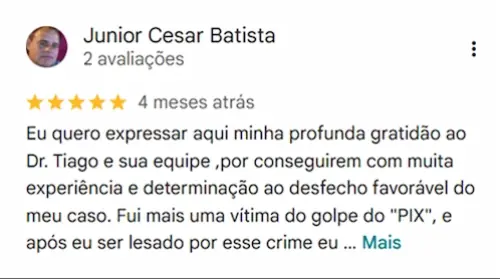
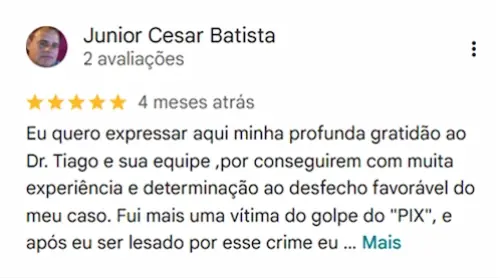
fix: SocialProof

diff --git a/src/components/sections/SocialProof.jsx b/src/components/sections/SocialProof.jsx
@@ -1,4 +1,4 @@
-import React, { useState } from "react";
+import React, { useState, useRef, useEffect } from "react";
 import content from "../../content/content";
 import { Carousel } from "primereact/carousel";
 import SectionArea from "../sectionElements/SectionArea";
@@ -28,11 +28,11 @@ function SocialProof({ colorMode }) {
 
   const productTemplate = (item) => {
     return (
-      <div className="flex justify-center px-2">
+      <div className="flex justify-center px-2 py-2">
         <img
           src={item}
           alt="imagens de fedback"
-          className="max-w-[800px] w-full rounded-xl"
+          className="max-w-[800px] w-full rounded-xl border-[1px] border-black/20 shadow-[0_0_10px_rgba(0,0,0,0.15)]"
           width={634}
           height={625}
         />
@@ -40,8 +40,56 @@ function SocialProof({ colorMode }) {
     );
   };
 
+  const totalPages = Math.ceil(imagens.length / 2);
+
+  const [page, setPage] = useState(0);
+  const carouselRef = useRef(null);
+
+  const next = () => {
+    setPage((prev) => (prev + 1) % totalPages);
+  };
+
+  const prev = () => {
+    setPage((prev) => (prev - 1 + totalPages) % totalPages);
+  };
+
+  useEffect(() => {
+    const interval = setInterval(() => {
+      setPage((prev) => (prev + 1) % totalPages);
+    }, 3000);
+
+    return () => clearInterval(interval);
+  }, [totalPages]);
+
+  let text, textOpacity, bgContainer;
+
+  switch (colorMode) {
+    case "light":
+      bgContainer = "bg-white";
+      text = "text-corTitulosPreto";
+      textOpacity = "text-corOutrosTextosPreto";
+      break;
+
+    case "dark":
+      bgContainer = "bg-black";
+      text = "text-corTitulosBranca";
+      textOpacity = "text-corOutrosTextosBranca";
+      break;
+
+    case "defaultDark":
+      bgContainer = "bg-white";
+      text = "text-corTitulosPreto";
+      textOpacity = "text-corOutrosTextosPreto";
+      break;
+
+    case "defaultLight":
+      bgContainer = "bg-white";
+      text = "text-corTitulosPreto";
+      textOpacity = "text-corOutrosTextosPreto";
+  }
+
   return (
-    <SectionArea className={`bg-darkOpacity`}>
+    <SectionArea className={``}>
       <SectionWrapper>
         {/* <SectionHeaderNovo
           miniTitle={content.texts.socialProof.minitag}
@@ -50,26 +98,32 @@ function SocialProof({ colorMode }) {
           colorMode={colorMode}
         /> */}
 
-        <section className="bg-black rounded-xl p-5 desktop1:px-10 py-20">
+        <section
+          className={`rounded-xl p-5 w-full desktop1:px-10 py-20 max-w-[1215px] ${bgContainer}`}
+        >
           <div className="flex w-full justify-between relative flex-col desktop1:flex-row desktop1:gap-6">
-            <div className="text-white font-secondFont tablet1:w-[400px] desktop1:w-[300px] mx-auto">
+            <div className="font-secondFont tablet1:w-[400px] desktop1:w-[310px] mx-auto">
               <section className="flex items-center gap-2 mb-3 w-full justify-center desktop1:justify-start">
                 <img
                   src={imgGoogle}
                   alt="Logomarca do Google"
                   className="w-5"
                 />{" "}
-                <p className="text-[14px] opacity-70 font-light">
+                <p
+                  className={`text-[14px] opacity-70 font-light ${textOpacity}`}
+                >
                   Avaliações Google
                 </p>
               </section>
               <section className="mb-6 w-full text-center desktop1:text-start">
-                <h1 className="text-title4 max-w-[300px] mx-auto desktop1:m-0 leading-10">
+                <h1
+                  className={`text-title4 max-w-[310px] mx-auto desktop1:m-0 font-bold leading-10 ${text}`}
+                >
                   O que nossos clientes falam de nós
                 </h1>
               </section>
               <section className="flex gap-4 mb-6 justify-center mx-auto desktop1:mx-0 desktop1:justify-start w-fit">
-                <h1 className="text-title4">4.9</h1>
+                <h1 className={`text-title4 ${textOpacity}`}>4.9</h1>
                 <div>
                   <div className="flex">
                     <Star
@@ -106,43 +160,42 @@ function SocialProof({ colorMode }) {
                   <p className="text-sm opacity-70 font-light">Excelente</p>
                 </div>
               </section>
+
+              <div className="flex gap-3 mt-4">
+                <button
+                  onClick={prev}
+                  className="p-2 rounded-full bg-black/10 shadow"
+                >
+                  <ChevronLeft size={20} />
+                </button>
+
+                <button
+                  onClick={next}
+                  className="p-2 rounded-full bg-black/10 shadow"
+                >
+                  <ChevronRight size={20} />
+                </button>
+              </div>
             </div>
 
-            <div className="desktop1:w-[600px] pb-6">
+            <div className="desktop1:w-[600px] pb-6 desktop1:pb-0">
               <div className="w-full mb-6">
                 <Carousel
                   value={imagens}
                   numScroll={1}
                   numVisible={2}
-                  showNavigators
+                  showNavigators={false}
                   responsiveOptions={responsiveOptions}
                   itemTemplate={productTemplate}
                   circular
                   showIndicators={false}
-                  autoplayInterval={5000}
+                  autoplayInterval={false}
+                  page={page}
+                  onPageChange={(e) => setPage(e.page)}
                 />
               </div>
             </div>
           </div>
-
-          {/* <MotionDivDownToUp className={`mt-6`}>
-            <ButtonReflexo
-              icon={
-                <svg
-                  xmlns="http://www.w3.org/2000/svg"
-                  width={18}
-                  height={18}
-                  fill="currentColor"
-                  viewBox="0 0 24 24"
-                >
-                  <path d="M17.472 14.382c-.297-.149-1.758-.867-2.03-.967-.273-.099-.472-.148-.67.15-.197.297-.768.966-.94 1.164-.173.198-.347.223-.644.074-.297-.149-1.255-.463-2.39-1.475-.883-.788-1.48-1.761-1.653-2.059-.173-.297-.018-.458.13-.606.134-.133.298-.347.446-.52.149-.174.198-.298.298-.497.099-.198.05-.372-.025-.521-.075-.149-.669-1.611-.916-2.207-.242-.579-.487-.5-.67-.51-.173-.007-.372-.009-.571-.009-.198 0-.52.074-.793.372-.273.297-1.04 1.016-1.04 2.479 0 1.462 1.065 2.875 1.213 3.074.149.198 2.095 3.2 5.077 4.487.709.306 1.262.489 1.694.625.712.226 1.36.194 1.872.118.571-.085 1.758-.718 2.006-1.412.248-.694.248-1.288.173-1.412-.074-.124-.272-.198-.57-.347m-5.421 7.403h-.004a9.87 9.87 0 01-5.031-1.378l-.361-.214-3.741.982.998-3.648-.235-.374a9.86 9.86 0 01-1.51-5.26c.001-5.45 4.436-9.884 9.888-9.884 2.64 0 5.122 1.03 6.988 2.896a9.825 9.825 0 012.893 6.994c-.002 5.45-4.436 9.884-9.884 9.884m8.413-18.297A11.815 11.815 0 0012.05 0C5.495 0 .16 5.335.158 11.892c0 2.096.547 4.142 1.588 5.94L0 24l6.305-1.654a11.882 11.882 0 005.732 1.463h.005c6.554 0 11.89-5.335 11.892-11.892a11.821 11.821 0 00-3.466-8.413" />
-                </svg>
-              }
-              link="https://tintim.link/whatsapp/065f4e87-42ce-42c4-87f2-420a05c17133/f5b25419-0c1b-4165-95a0-93e1edd1ac0f"
-              label={content.texts.socialProof.ctaButtonText}
-              colorMode={colorMode}
-            />
-          </MotionDivDownToUp> */}
         </section>
       </SectionWrapper>
     </SectionArea>

diff --git a/src/index.css b/src/index.css
@@ -13,54 +13,3 @@
   --primaryDark: theme(colors.primaryDark);
 }
 /* Não remover este item acima pois ele faz com que as seções possam alternar */
-
-.p-carousel-indicators .p-reset {
-  display: hidden;
-}
-
-.p-carousel-prev,
-.p-carousel-next {
-  position: absolute !important;
-
-  z-index: 10;
-}
-
-/* Mobile até 1023px */
-@media (max-width: 1023px) {
-  .p-carousel-prev,
-  .p-carousel-next {
-    left: 50%;
-    transform: translateX(-50%);
-    bottom: 1px;
-    background-color: white;
-    padding: 8px;
-    border-radius: 100%;
-  }
-
-  .p-carousel-prev {
-    margin-left: -24px;
-  }
-
-  .p-carousel-next {
-    margin-left: 24px;
-  }
-}
-
-/* Desktop 1024px+ */
-@media (min-width: 1024px) {
-  .p-carousel-prev {
-    left: 0px;
-    bottom: 0px;
-    background-color: white;
-    padding: 8px;
-    border-radius: 100%;
-  }
-
-  .p-carousel-next {
-    left: 45px;
-    bottom: 0px;
-    background-color: white;
-    padding: 8px;
-    border-radius: 100%;
-  }
-}

diff --git a/src/content/content.jsx b/src/content/content.jsx
@@ -142,7 +142,7 @@ const content = {
         <p>
           É possível recuperar os valores perdidos e ainda uma{" "}
           <span className="text-primaryLight">
-            indenização de até R$ 10 mil reais,
+            <strong> indenização de até R$ 10 mil reais,</strong>
           </span>{" "}
           mesmo que o banco tenha dito que não havia o que fazer.
           <br />
@@ -158,7 +158,12 @@ const content = {
               <span>
                 <Check width={18} className="text-primaryLight" />
               </span>
-              Mais de R$ 1 milhão recuperados pros nossos clientes
+              <p>
+                {" "}
+                Mais de{" "}
+                <strong className="text-primaryLight">R$ 1 milhão </strong>
+                recuperados pros nossos clientes
+              </p>
             </p>
             <p className="flex items-center gap-2">
               <span>

diff --git a/src/components/sections/Diferences.jsx b/src/components/sections/Diferences.jsx
@@ -41,7 +41,7 @@ export function Diferences({ colorMode }) {
       text = "text-corTitulosPreto";
       textOpacity = "text-corOutrosTextosPreto";
       textDestaque = "text-primaryLight";
-      bgCards = "bg-white shadow";
+      bgCards = "bg-black shadow";
       borderSVG = "border-primaryLight";
       bgContainer = "bg-terciary";
       break;
@@ -66,7 +66,7 @@ export function Diferences({ colorMode }) {
         <div className="container mx-auto relative z-10">
           <div className="max-w-5xl mx-auto">
             <div
-              className={`backdrop-blur-sm rounded-xl overflow-hidden shadow-2xl ${bgContainer}`}
+              className={`backdrop-blur-sm rounded-xl overflow-hidden ${bgContainer}`}
             >
               <div className="p-8 md:p-12">
                 <div className="grid grid-cols-1 lg:grid-cols-2 gap-12 items-center">

diff --git a/tailwind.config.js b/tailwind.config.js
@@ -22,7 +22,7 @@ export default {
     extend: {
       colors: {
         // Principais
-        primaryDark: "#000",
+        primaryDark: "#0F0F10",
         primaryLight: "#FACC15",
         secondary: "#E0E2E9",
         terciary: "#F1F3F7",
